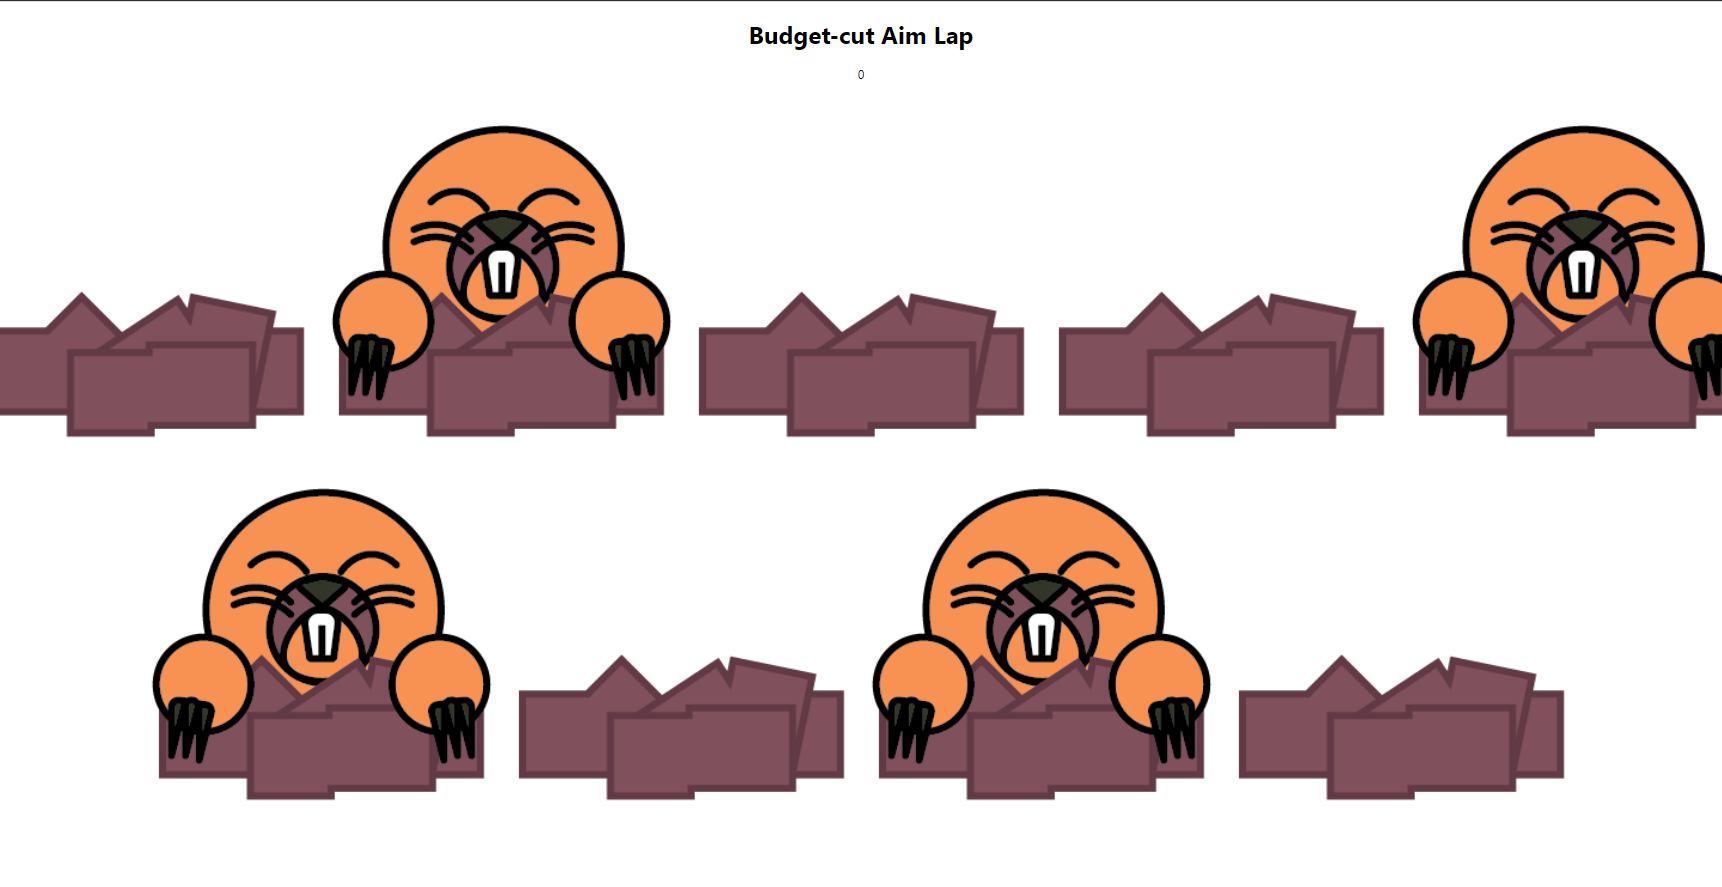
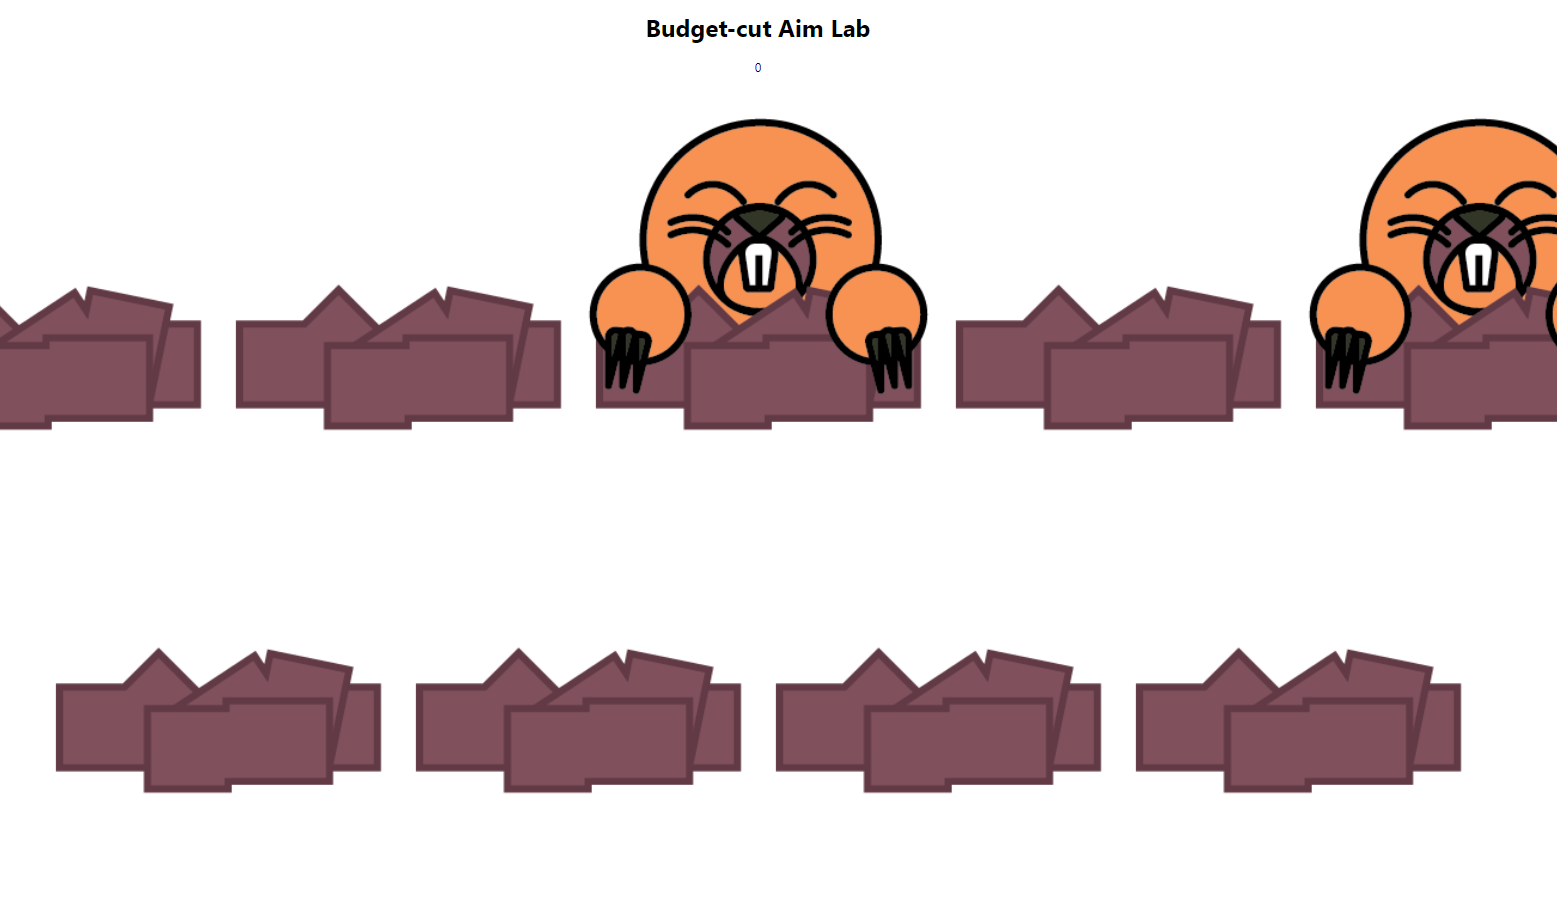
Update README

Changed region(s): [[0.0, 0.1218, 1.0, 0.5175], [0.0308, 0.5479, 0.9557, 0.9132], [0.4008, 0.0, 0.5857, 0.0609]]

diff --git a/src/App.js b/src/App.js
@@ -25,7 +25,7 @@ function App() {
 
   return (
     <div className="App">
-      <h1>Budget-cut Aim Lap</h1>
+      <h1>Budget-cut Aim Lab</h1>
       {score}
       {createMoleHill()}
     </div>

diff --git a/README.md b/README.md
@@ -12,7 +12,7 @@ HIT DA MOLE YO
 
 ## Screenshot
 
-![ScreenShot](https://github.com/dnsghd49/mOLeEe/blob/main/public/.png)
+![ScreenShot](https://github.com/dnsghd49/mOLeEe/blob/main/public/screenshot.png)
 
 ## Installation
 
